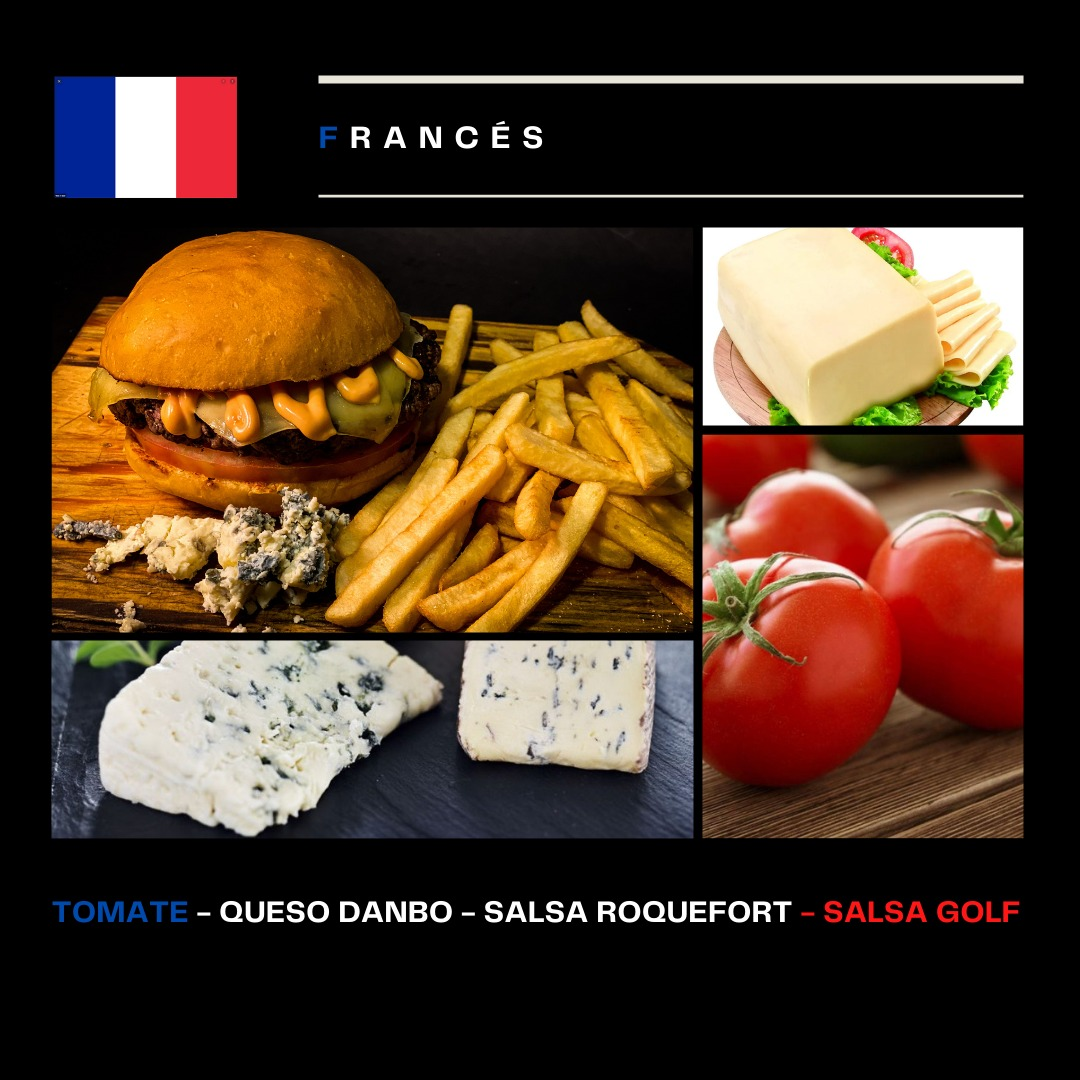
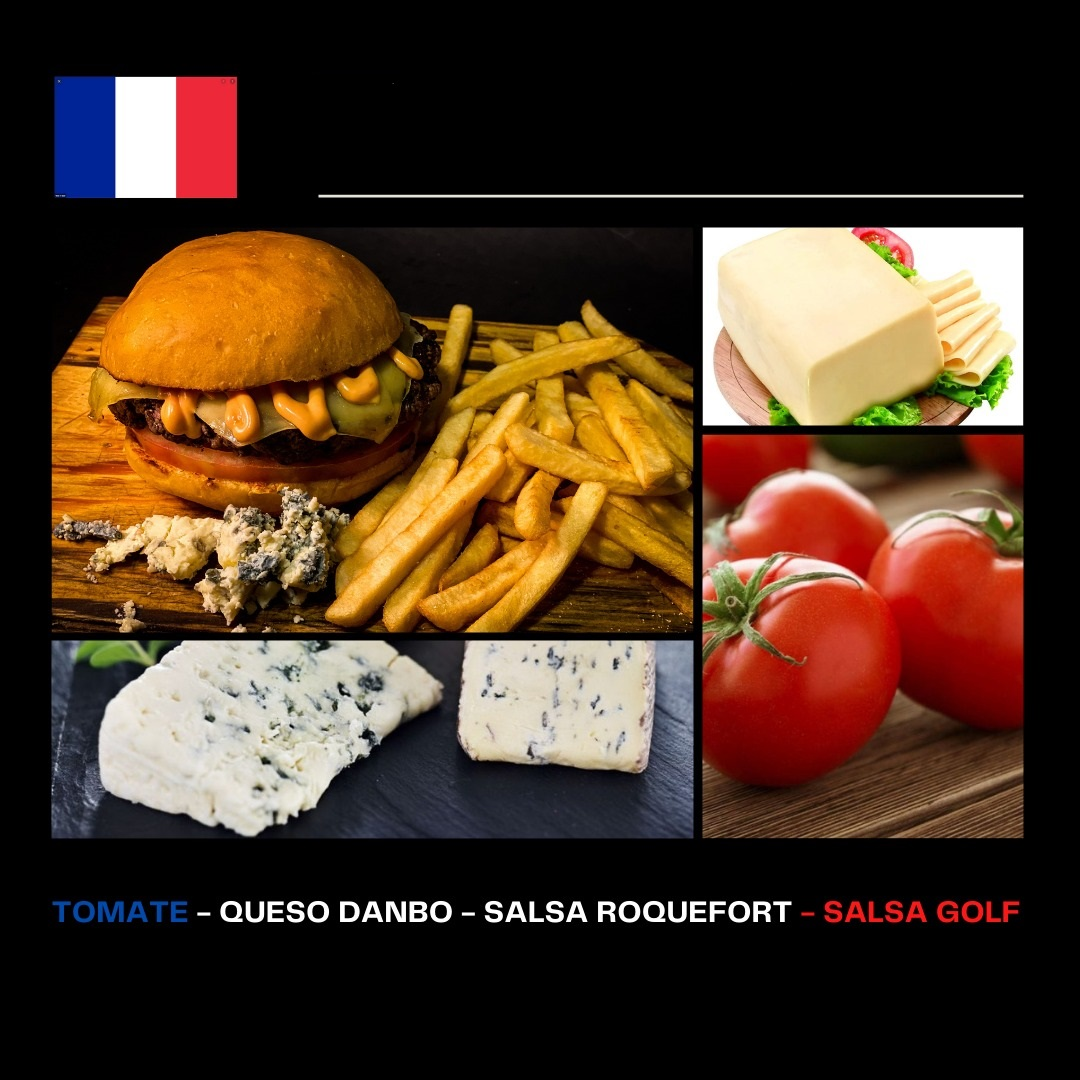
agregue paises

Changed region(s): [[0.275, 0.0611, 0.9472, 0.1528]]

diff --git a/css/index.css b/css/index.css
@@ -141,26 +141,55 @@ html {
       color: white;
       text-transform: uppercase; }
 
-.main-paises__title {
-  background: linear-gradient(to left, blue, white, red);
-  -webkit-background-clip: text;
-  color: transparent;
-  font-family: 'Rampart One', cursive;
-  font-size: 2rem; }
-
-.main-paises__pais {
-  width: 500px;
-  height: 500px;
-  background-color: black;
+.main-paises {
   display: flex;
-  flex-direction: column;
-  justify-content: space-evenly;
-  margin-bottom: 2rem; }
-
-.main-paises__item {
-  color: white;
-  list-style: none;
-  padding: 1rem; }
+  flex-direction: column; }
+  .main-paises h2 {
+    color: white;
+    text-transform: uppercase; }
+  .main-paises__contenedor {
+    display: flex;
+    background-color: black;
+    padding: 2rem;
+    gap: 2rem;
+    border: #3a3636 dotted 1px;
+    border-radius: 5px;
+    justify-content: center;
+    flex-wrap: wrap;
+    width: 1200px; }
+  .main-paises__pais {
+    width: 500px;
+    height: 500px;
+    background-color: black;
+    display: flex;
+    flex-direction: column;
+    justify-content: space-evenly;
+    margin-bottom: 2rem; }
+  .main-paises__divTitle {
+    margin: 1rem 0rem 3rem 0rem; }
+  .main-paises__subtitle {
+    font-family: 'Rampart One', cursive;
+    font-size: 2rem; }
+    .main-paises__subtitle--arg {
+      background: linear-gradient(to right, #61cfdd, #61cfdd, white, #61cfdd, #61cfdd);
+      -webkit-background-clip: text;
+      color: transparent; }
+    .main-paises__subtitle--usa {
+      background: linear-gradient(to right, blue, blue, white, red, white, red);
+      -webkit-background-clip: text;
+      color: transparent; }
+    .main-paises__subtitle--fra {
+      background: linear-gradient(to right, blue, blue, white, red, red);
+      -webkit-background-clip: text;
+      color: transparent; }
+    .main-paises__subtitle--mex {
+      background: linear-gradient(to right, green, green, white, red, red);
+      -webkit-background-clip: text;
+      color: transparent; }
+  .main-paises__item {
+    color: white;
+    list-style: none;
+    padding: 1rem; }
 
 @media screen and (max-width: 600px) {
   .main__title {
@@ -191,5 +220,22 @@ html {
     .main-contenedor__sub {
       padding-top: 1rem;
       text-transform: uppercase; }
-  .main-paises__pais {
-    width: 400px; } }
+  .main-paises {
+    display: flex;
+    flex-direction: column;
+    align-content: center;
+    justify-content: center; }
+    .main-paises__contenedor {
+      display: flex;
+      flex-direction: column;
+      justify-content: center;
+      align-content: center;
+      width: 100%; }
+    .main-paises__pais {
+      width: 400px; }
+    .main-paises__divTitle {
+      max-width: 90%; }
+    .main-paises__title {
+      border: #4b2424 1px;
+      border-style: dashed;
+      padding: 1rem; } }

diff --git a/scss/partials/_main.scss b/scss/partials/_main.scss
@@ -64,15 +64,28 @@
     
 }
 
+// SECTOR PAÍSES
+
 .main-paises {
 
+    display: flex;
+    flex-direction: column;
 
-    &__title {
-        background: linear-gradient(to left, blue, white, red);
-        -webkit-background-clip: text;
-        color: transparent;
-        font-family: 'Rampart One', cursive;
-        font-size: 2rem;
+    h2 {
+        color: white;
+        text-transform: uppercase;
+    }
+
+    &__contenedor {
+        display: flex;
+        background-color: black;
+        padding: 2rem;
+        gap: 2rem;
+        border: rgb(58, 54, 54) dotted 1px;
+        border-radius: 5px;
+        justify-content: center;
+        flex-wrap: wrap;
+        width: 1200px;
     }
 
     &__pais {
@@ -83,6 +96,41 @@
         flex-direction: column;
         justify-content:space-evenly;
         margin-bottom: 2rem;
+    }
+
+    &__divTitle {
+        margin: 1rem 0rem 3rem 0rem;
+    }
+
+    &__subtitle {
+        font-family: 'Rampart One', cursive;
+        font-size: 2rem;
+
+        &--arg {
+            background: linear-gradient(to right, rgb(97, 207, 221),rgb(97, 207, 221), white,rgb(97, 207, 221), rgb(97, 207, 221));
+            -webkit-background-clip: text;
+            color: transparent;
+        }
+
+        &--usa {
+            background: linear-gradient(to right,blue, blue,white, red, white, red);
+            -webkit-background-clip: text;
+            color: transparent;
+                
+        }
+
+        &--fra {
+            background: linear-gradient(to right, blue, blue, white, red, red);
+            -webkit-background-clip: text;
+            color: transparent; 
+        }
+
+        &--mex {
+            background: linear-gradient(to right, green,green , white,red, red);
+            -webkit-background-clip: text;
+            color: transparent;
+            
+        }
     }
 
     &__item {
@@ -140,10 +188,32 @@
     }
 
     .main-paises {
+        display: flex;
+        flex-direction: column;
+        align-content: center;
+        justify-content: center;
 
+        &__contenedor {
+            display: flex;
+            flex-direction: column;
+            justify-content: center;
+            align-content: center;
+            width: 100%;
+
+        }
 
         &__pais {
             width: 400px;
+        }
+
+        &__divTitle {
+            max-width: 90%;
+        }
+
+        &__title {
+            border: rgb(75, 36, 36) 1px;
+            border-style: dashed;
+            padding: 1rem; 
         }
     }
 }

diff --git a/index.html b/index.html
@@ -70,16 +70,32 @@
         </section>
 
         <section class="main-paises">
-            <div class="main-paises__pais">
-                <!-- <h3 class="main-paises__title">F R A N C É S</h3>
-                <ul class="main-paises__lista">
-                    <li class="main-paises__item">Queso</li>
-                    <li class="main-paises__item">Roquefort</li>
-                    <li class="main-paises__item">Salsa Golf</li>
-                    <li class="main-paises__item">Lechuga</li>
-                </ul> -->
-                <img src="img/frrrr.jpeg" alt="">
+            <div class="main-paises__divTitle">
+                <h2 class="main-paises__title">Elegí el país, nosotros te llevamos</h2>
             </div>
+            <div class="main-paises__contenedor">
+                <div class="main-paises__pais">
+                    <h3 class="main-paises__subtitle main-paises__subtitle--arg">A R G E N T I N O</h3>
+                    <img src="img/arg.jpeg" alt="">
+                </div>
+                <div class="main-paises__pais">
+                    <h3 class="main-paises__subtitle main-paises__subtitle--usa">A M E R I C A N O</h3>
+                    <img src="img/usa.jpeg" alt="">
+                </div>
+                <div class="main-paises__pais">
+                    <h3 class="main-paises__subtitle main-paises__subtitle--mex">M E X I C A N O</h3>
+                    <img src="img/mex.jpeg" alt="">
+                </div>
+                <div class="main-paises__pais">
+                    <h3 class="main-paises__subtitle main-paises__subtitle--fra">F R A N C É S</h3>
+                    <img src="img/frrrr.jpeg" alt="">
+                </div>
+                <div class="main-paises__pais">
+                    <h3 class="main-paises__subtitle main-paises__subtitle--mex">I T A L I A N O</h3>
+                    <img src="img/ita.jpeg" alt="">
+                </div>
+            </div>
+            
         </section>
 
     </main>
